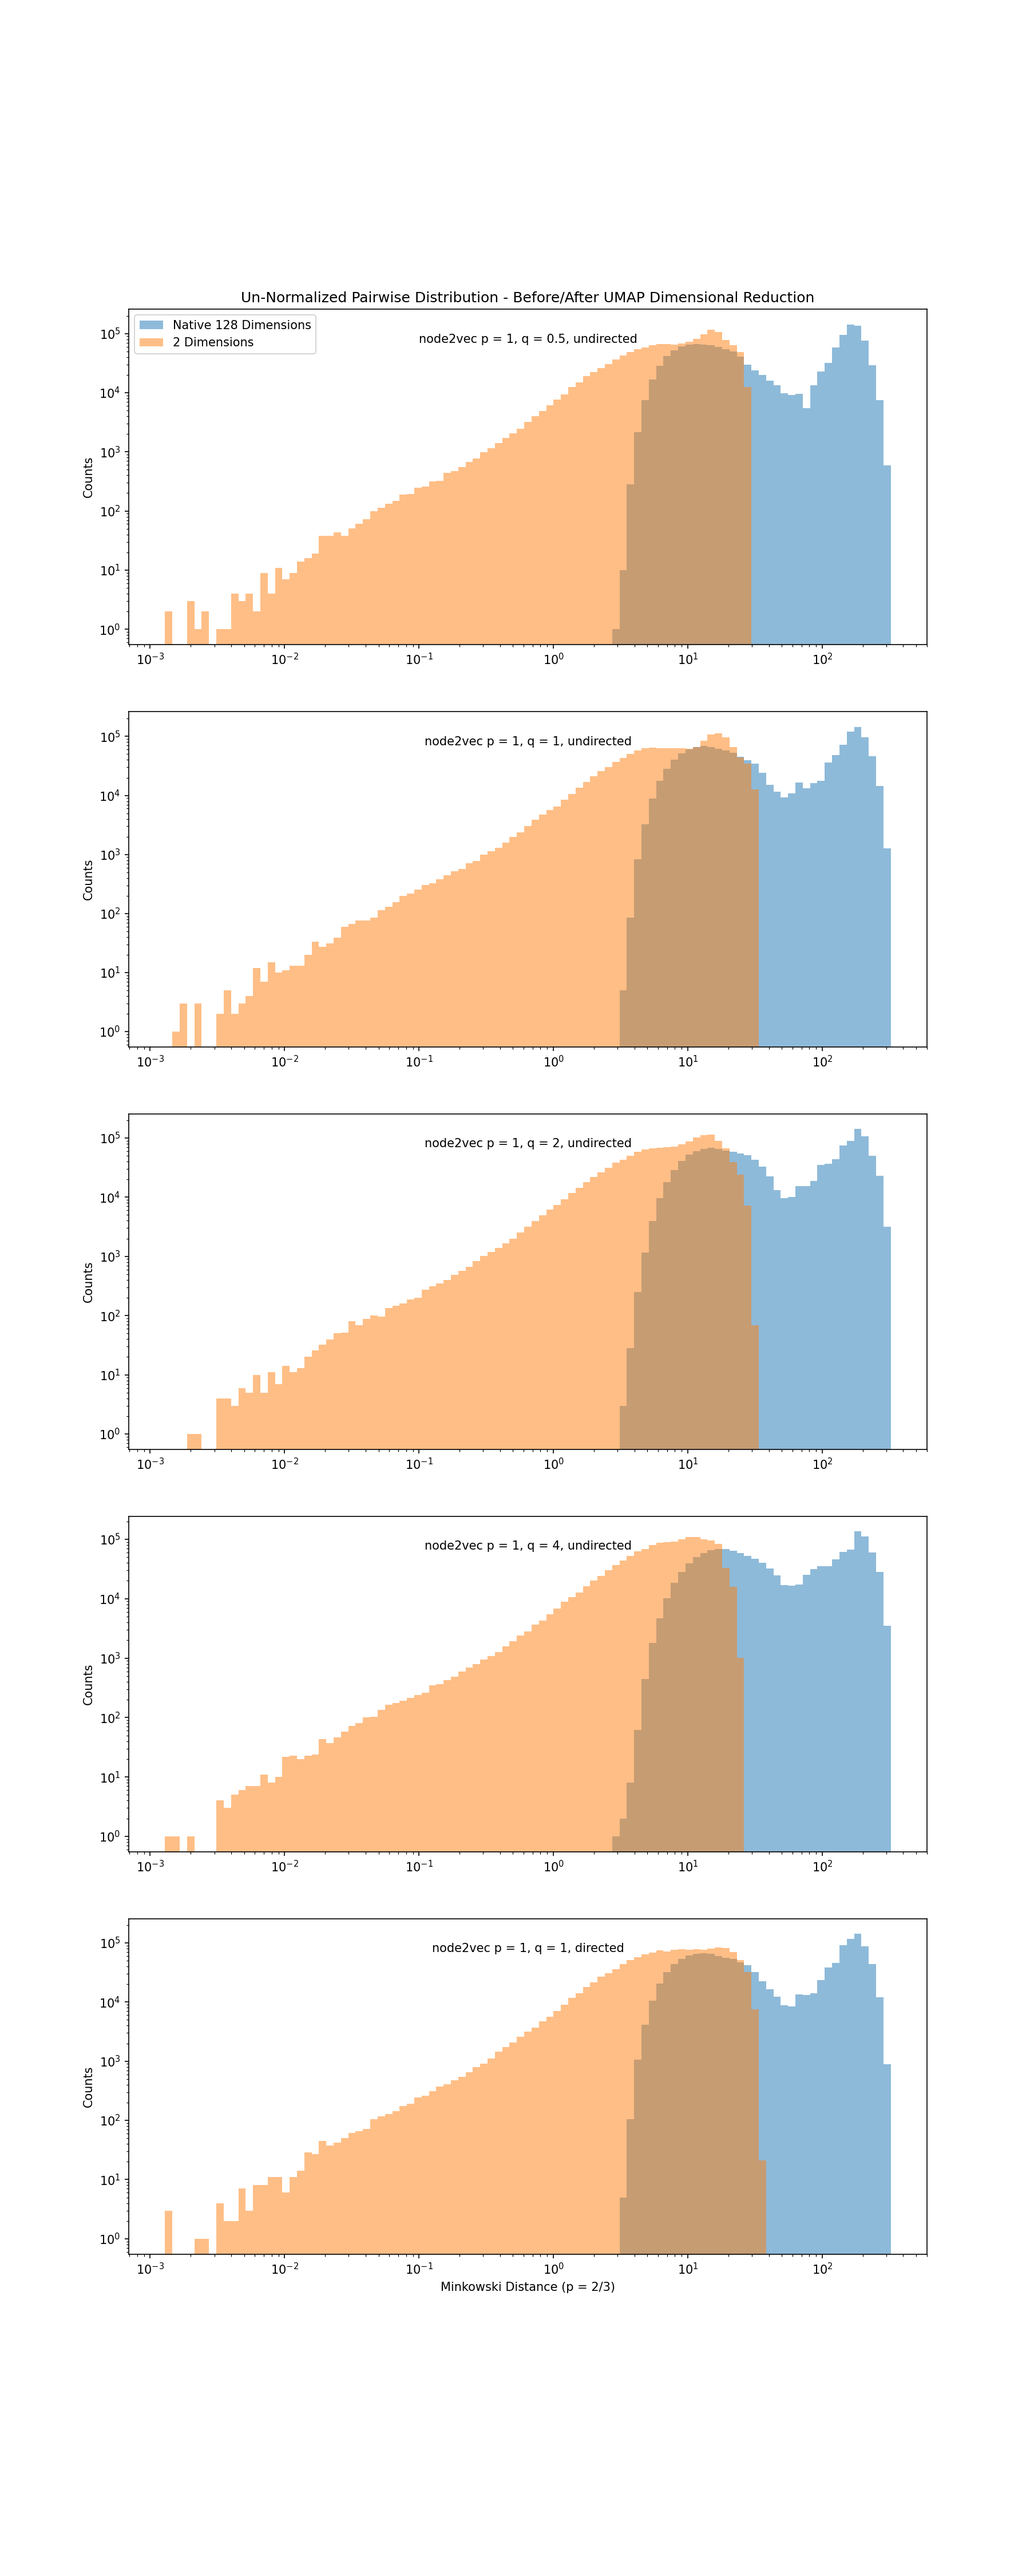
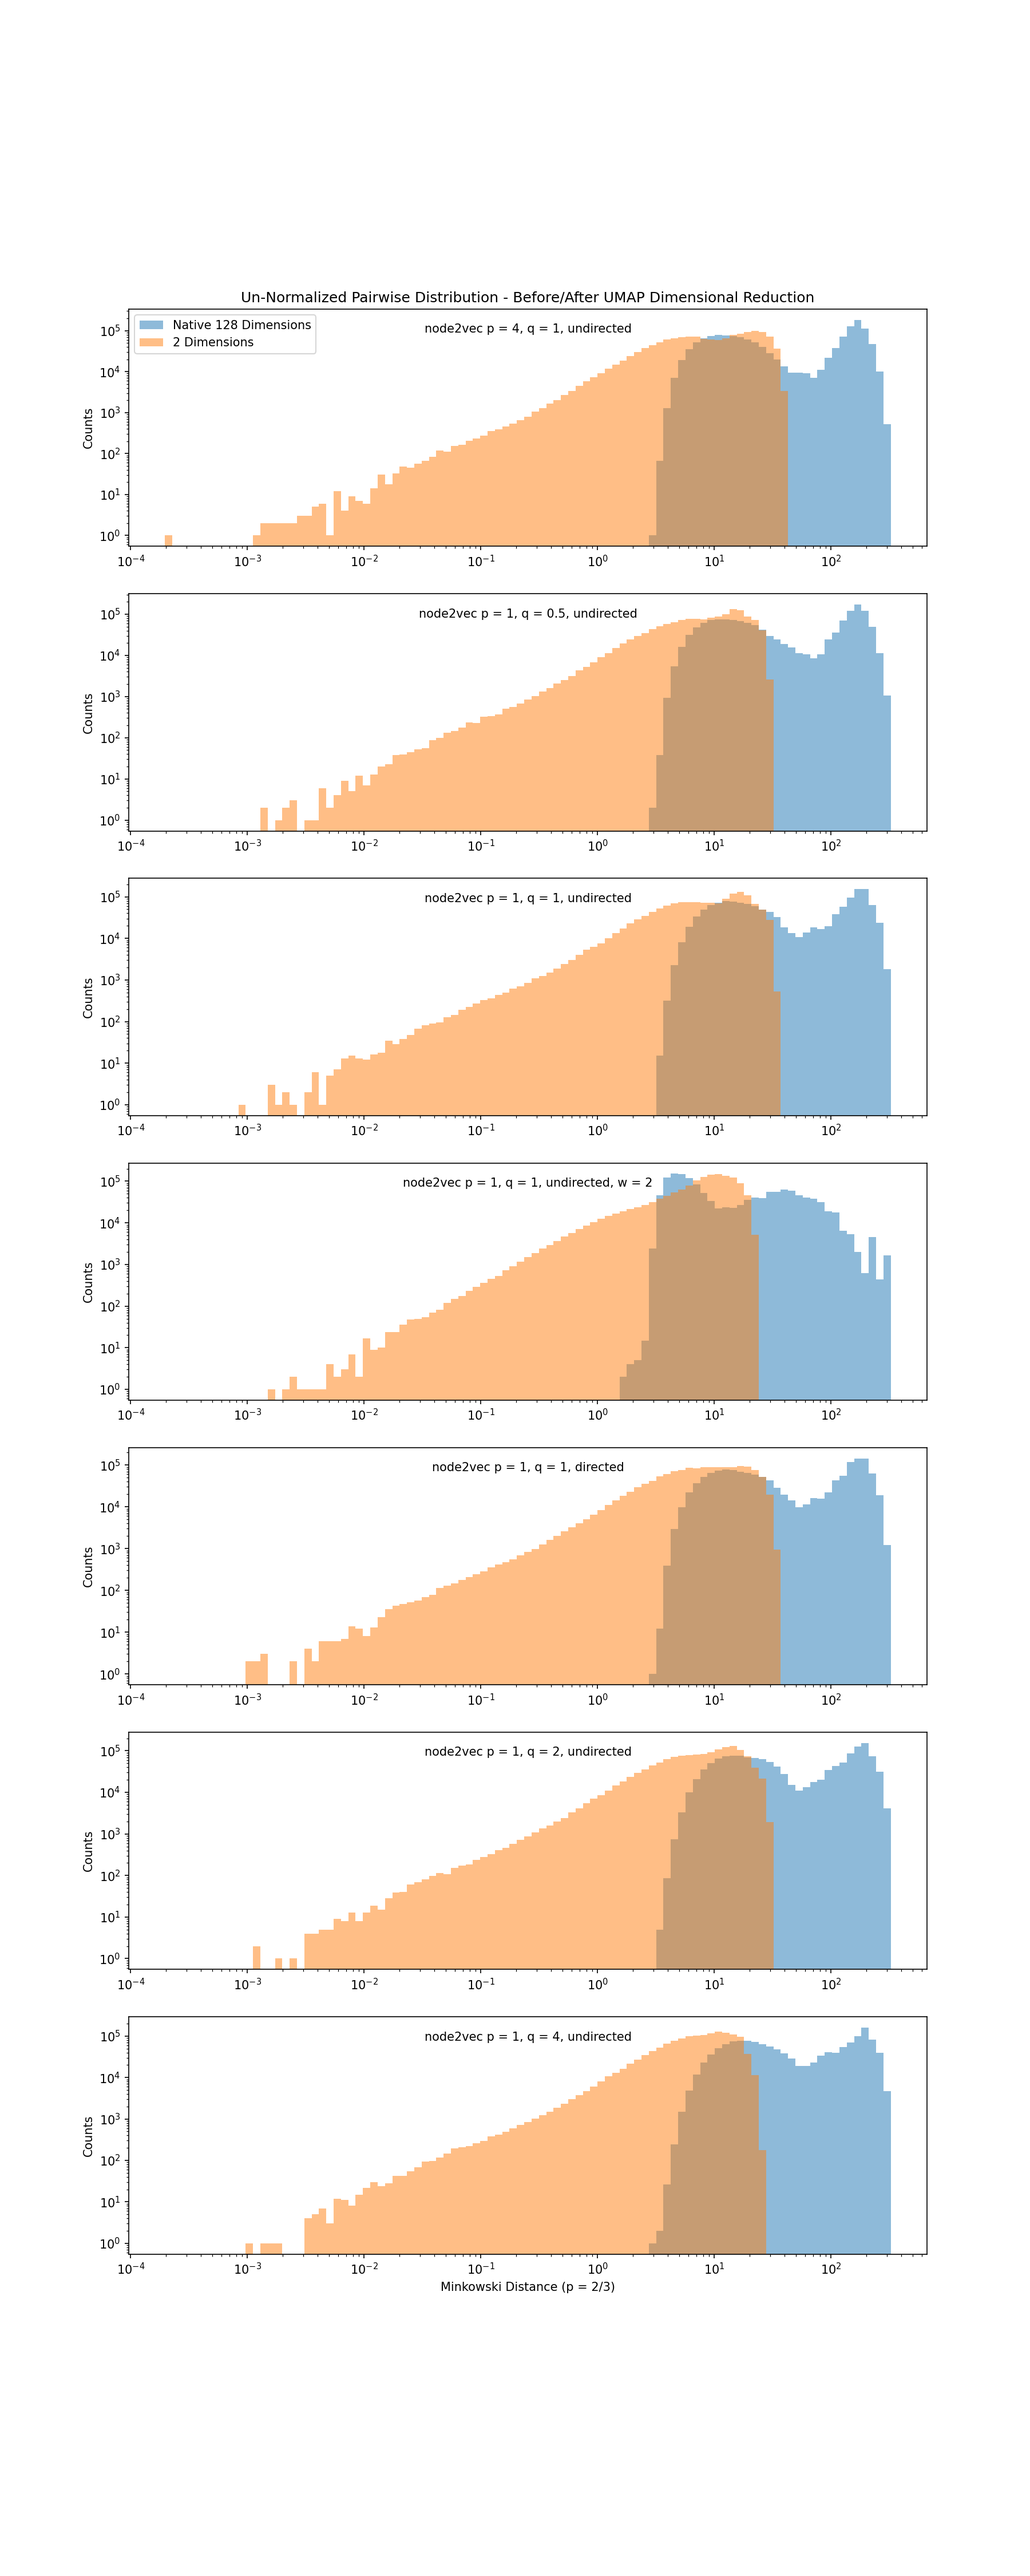
Added w = 2 case

diff --git a/BIO/emmaa_8_v3_clustering.py b/BIO/emmaa_8_v3_clustering.py
@@ -40,9 +40,22 @@ nodeEmb_mitre = []
 nodeEmb_mitre.append(emlib.load_jsonl('./G_mitre_p4_q1_n10len80_undirected.jsonl', remove_preamble = False))
 nodeEmb_mitre.append(emlib.load_jsonl('./G_mitre_p1_q05_n10len80_undirected.jsonl', remove_preamble = False))
 nodeEmb_mitre.append(emlib.load_jsonl('./G_mitre_p1_q1_n10len80_undirected.jsonl', remove_preamble = False))
+nodeEmb_mitre.append(emlib.load_jsonl('./G_mitre_p1_q1_n10len80_undirected_w2.jsonl', remove_preamble = False))
 nodeEmb_mitre.append(emlib.load_jsonl('./G_mitre_p1_q1_n10len80_directed.jsonl', remove_preamble = False))
 nodeEmb_mitre.append(emlib.load_jsonl('./G_mitre_p1_q2_n10len80_undirected.jsonl', remove_preamble = False))
 nodeEmb_mitre.append(emlib.load_jsonl('./G_mitre_p1_q4_n10len80_undirected.jsonl', remove_preamble = False))
+
+
+emb_names = [
+    'node2vec p = 4, q = 1, undirected', 
+    'node2vec p = 1, q = 0.5, undirected', 
+    'node2vec p = 1, q = 1, undirected', 
+    'node2vec p = 1, q = 1, undirected, w = 2', 
+    'node2vec p = 1, q = 1, directed', 
+    'node2vec p = 1, q = 2, undirected', 
+    'node2vec p = 1, q = 4, undirected',
+    ]
+
 
 num_nodes = len(nodes_mitre)
 num_embs = len(nodeEmb_mitre)
@@ -105,7 +118,7 @@ x = 10 ** np.linspace(np.log10(m), np.log10(n), 100)
 
 fig, ax = plt.subplots(nrows = num_embs, ncols = 1, figsize = (12, 30))
 
-for i, (ax_, s) in enumerate(zip(ax, ['0.5, undirected', '1, undirected', '2, undirected', '4, undirected', '1, directed'])):
+for i, (ax_, s) in enumerate(zip(ax, emb_names)):
 
     h, __ = np.histogram([v for k, v in pdist[i].items()], bins = x, density = False)
     h_red, __ = np.histogram([v for k, v in pdist_red[i].items()], bins = x, density = False)
@@ -114,7 +127,7 @@ for i, (ax_, s) in enumerate(zip(ax, ['0.5, undirected', '1, undirected', '2, un
     __ = ax_.bar(x[:-1], h_red, width = 1.0 * np.diff(x), align = 'edge', alpha = 0.5, label = f"{num_emb_dim_red} Dimensions")
 
 
-    __ = ax_.text(0.5, 0.9, f"node2vec p = 1, q = {s}", transform = ax_.transAxes, horizontalAlignment = 'center')
+    __ = ax_.text(0.5, 0.9, f"{s}", transform = ax_.transAxes, horizontalAlignment = 'center')
     __ = plt.setp(ax_, ylabel = 'Counts', xscale = 'log', yscale = 'log')
     if i == 0:
         __ = plt.setp(ax_, title = 'Un-Normalized Pairwise Distribution - Before/After UMAP Dimensional Reduction')
@@ -144,6 +157,8 @@ map_ids_nodes = {node['id']: i for i, node in enumerate(nodes_mitre)}
 edge_list = {(map_ids_nodes[edge['source_id']], map_ids_nodes[edge['target_id']]): {'weight': edge['belief']} for edge in edges_mitre}
 
 # %%
+%%time
+
 # Load graph object to get graph measures
 with open('./dist/v3/G_mitre.pkl', 'rb') as x:
     G_mitre = pickle.load(x)
@@ -165,13 +180,16 @@ labels = [dict(G_mitre.degree()),
     # nx.algorithms.centrality.trophic_levels(G_mitre),
     # nx.algorithms.centrality.voterank(G_mitre),
 ]
+
 labels = [np.array([v for __, v in l.items()]) if isinstance(l, dict) else l for l in labels]
 
 for i in [0]:
     labels[i] = np.log10(labels[i])
 
-
 labels_name = ['Log Degree', 'Closeness', 'Harmonic']
+
+
+# time: 
 
 # %%
 fig, ax = plt.subplots(nrows = len(labels), ncols = 2, figsize = (6 * 2, 6 * len(labels)))
@@ -210,14 +228,7 @@ del i, s, fig, ax, emb, labels_
 # Cluster labels
 # labels = np.array([0 if x < 5.0 else 1 for x in emb_nodes_red[0][:, 0]])
 
-emb_names = [
-    'node2vec p = 4, q = 1, undirected', 
-    'node2vec p = 1, q = 0.5, undirected', 
-    'node2vec p = 1, q = 1, undirected', 
-    'node2vec p = 1, q = 1, directed', 
-    'node2vec p = 1, q = 2, undirected', 
-    'node2vec p = 1, q = 4, undirected',
-    ]
+
 
 # %%
 fig, ax = plt.subplots(nrows = num_embs, ncols = 2, figsize = (6 * 2, 6 * num_embs))
